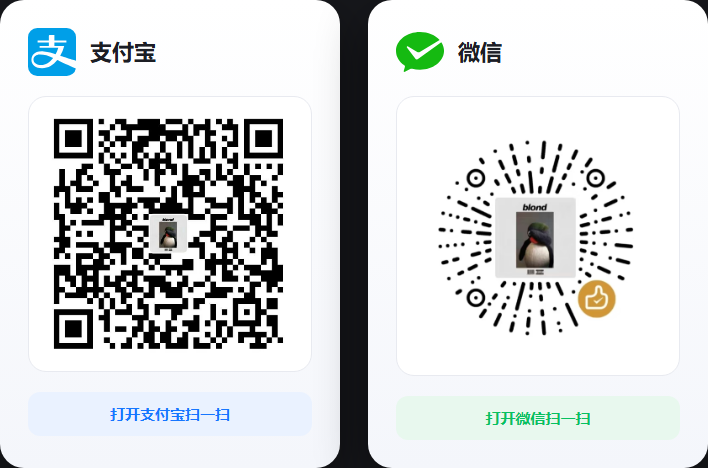
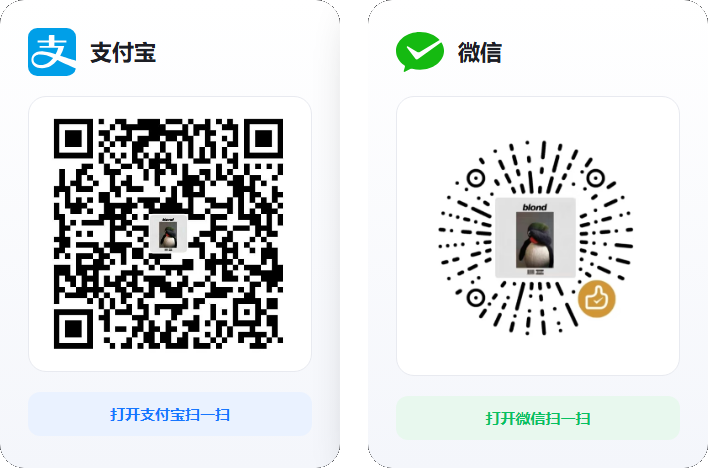
Update README.md

diff --git a/README.md b/README.md
@@ -47,9 +47,9 @@ dotnet publish JuniGrid/JuniGrid.csproj -c Release
 
 如果对你有帮助，可以请作者喝杯咖啡吗
 
-<img src="sponsor-cards.png" alt="赞助收款码" width="480" />
+<img src="sponsor-cards.png" alt="赞助收款码" width="640" />
 
-**MLD/MLD（\*禺）** ——扫码前请确定收款人信息
+<sub>MLD/MLD（\*禺）——扫码前请确定收款人信息</sub>
 
 ## 许可
 
